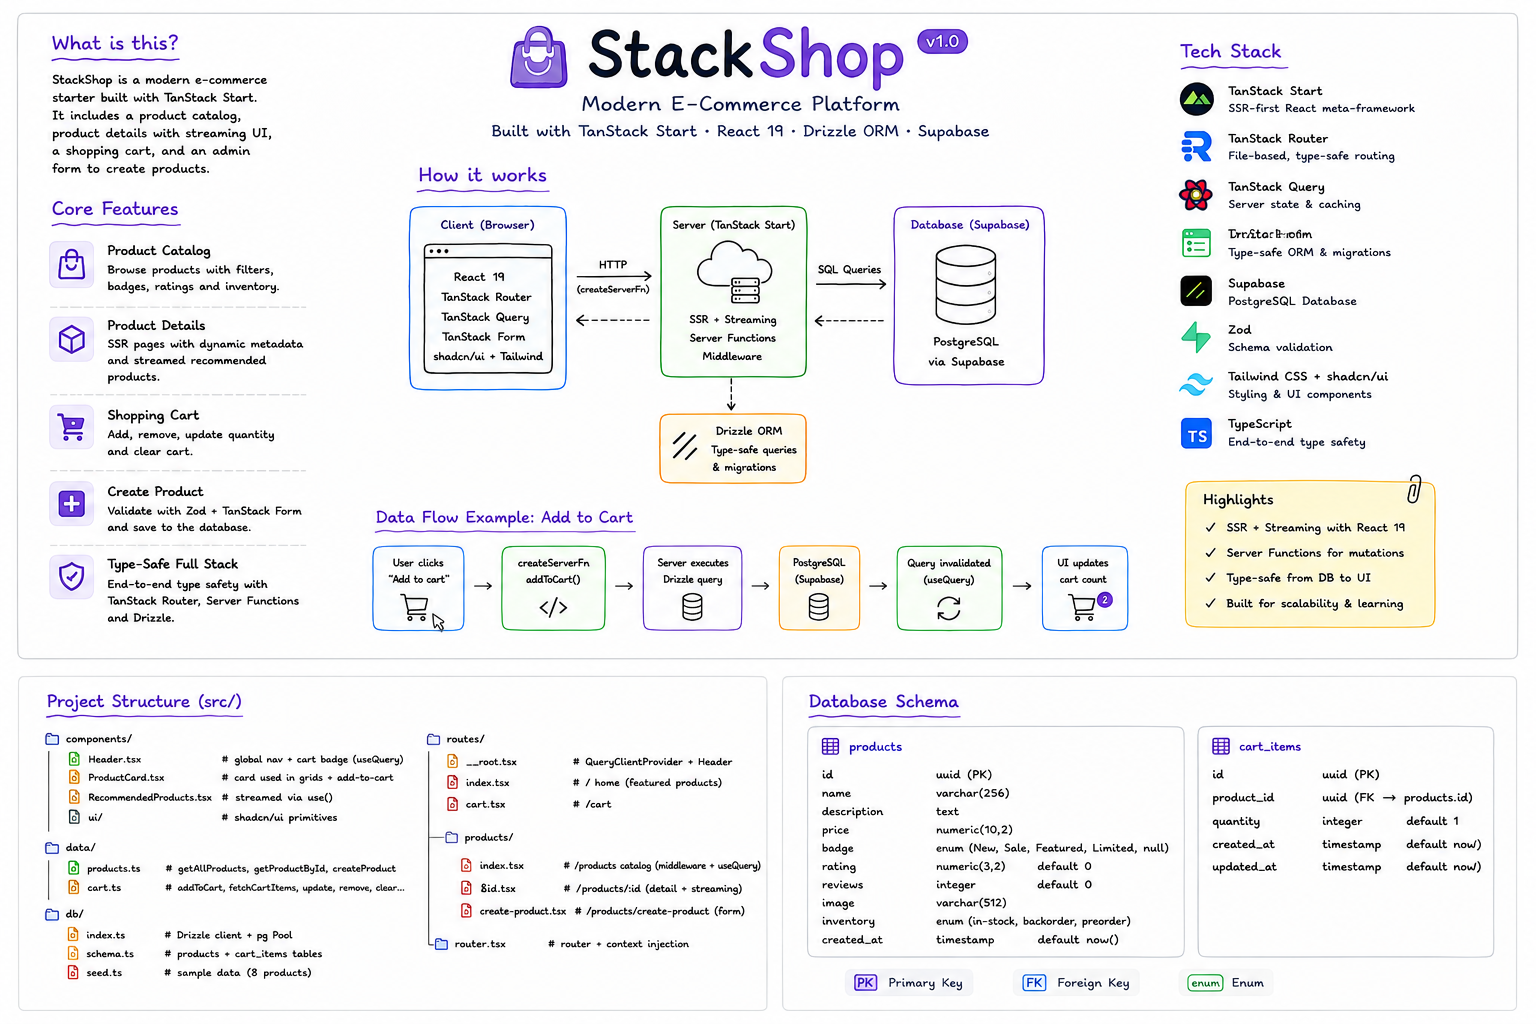
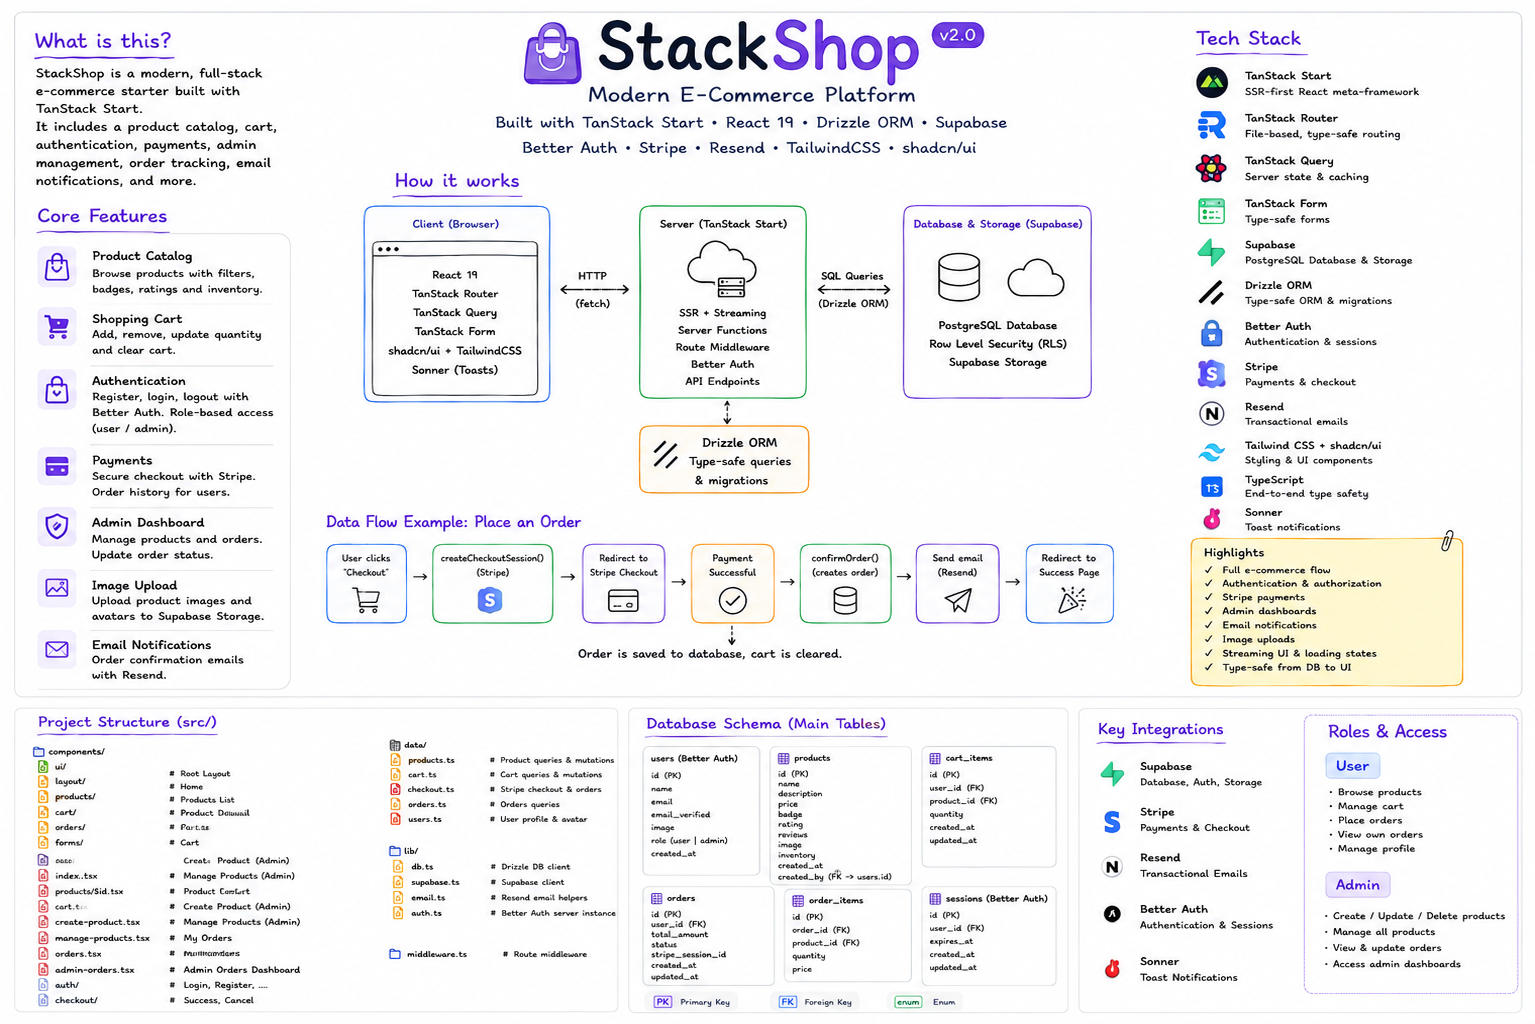
chore: Update readme

Changed region(s): [[0.0, 0.0312, 0.9798, 1.0], [0.2143, 0.0, 0.7042, 0.5]]

diff --git a/README.md b/README.md
@@ -156,10 +156,18 @@
 | **Routing** | [TanStack Router](https://tanstack.com/router) — File-based, fully type-safe routing |
 | **Server State** | [TanStack Query](https://tanstack.com/query) — Client-side caching, background refetch |
 | **Forms** | [TanStack Form](https://tanstack.com/form) — Headless, field-level reactive forms |
+| **Tables** | [TanStack Table](https://tanstack.com/table) — Headless table for admin dashboards |
 | **Database** | [PostgreSQL](https://www.postgresql.org/) via [Supabase](https://supabase.com/) |
 | **ORM** | [Drizzle ORM](https://orm.drizzle.team/) — Type-safe query builder + migrations |
+| **Authentication** | [Better Auth](https://www.better-auth.com/) — Email/password auth with Drizzle adapter, role-based access |
+| **Payments** | [Stripe](https://stripe.com/) — Checkout Sessions, line items, payment verification |
+| **Storage** | [Supabase Storage](https://supabase.com/storage) — Product images + profile avatars via `@supabase/supabase-js` |
+| **Email** | [Resend](https://resend.com/) — Transactional HTML order confirmation emails |
+| **Notifications** | [Sonner](https://sonner.emilkowal.ski/) — Toast notifications for mutations and errors |
 | **Styling** | [Tailwind CSS v4](https://tailwindcss.com/) + [shadcn/ui](https://ui.shadcn.com/) |
 | **Validation** | [Zod](https://zod.dev/) — Runtime schema validation |
+| **Image Processing** | [browser-image-compression](https://github.com/Donaldcwl/browser-image-compression) — Client-side compression before upload |
+| **Icons** | [Lucide React](https://lucide.dev/) + [HugeIcons](https://hugeicons.com/) |
 | **Language** | [TypeScript](https://www.typescriptlang.org/) 5.7 |
 | **Toolchain** | [Vite](https://vitejs.dev/) 8 + [Biome](https://biomejs.dev/) (lint & format) |
 
@@ -169,16 +177,39 @@
 
 ## 💫 Application Features
 
+**Products**
 - **Product catalog** — browsable grid with badges, ratings, reviews, and inventory status
-- **Product detail page** — SSR with dynamic metadata (`<head>`) per product
+- **Product detail page** — SSR with dynamic `<head>` metadata per product (title, description, canonical)
 - **Streaming UI** — recommended products load via React 19 `use()` + `<Suspense>` with skeleton fallback
-- **Create product form** — field-level Zod validation via TanStack Form, writes to the real DB
-- **Shopping cart** — add, remove, update quantity, clear cart; all persisted in PostgreSQL
+- **Create product form** — field-level Zod validation via TanStack Form, image upload to Supabase Storage
+- **Admin product management** — inline edit and delete via Dialog; protected to `admin` role only
+- **Search, filter & sort** — `DataToolbar` component with live search, inventory filter, and sort across the catalog and admin panel
+
+**Cart & Checkout**
+- **Shopping cart** — add, remove, update quantity, clear cart; upsert pattern for duplicates; all persisted in PostgreSQL
 - **Cart badge in header** — live item count and total via `useQuery`, invalidated on every mutation
-- **Server Functions** — `createServerFn` for all data mutations (type-safe HTTP endpoints)
+- **Stripe Checkout** — creates a Checkout Session with line items, redirects to Stripe-hosted payment page
+- **Order confirmation** — verifies payment with Stripe on return, marks order as `paid`, clears the cart
+- **Product snapshots** — `order_items` stores name, price, and image at purchase time — decoupled from catalog changes
+
+**Orders**
+- **Order history** — user-facing page listing all past orders with items, quantities, and status
+- **Admin orders dashboard** — table of all orders joined with buyer info; update status (`pending` → `paid` → `failed`)
+- **Order confirmation email** — HTML email sent via Resend on successful payment; themeable via `StoreConfig`
+
+**Auth & Users**
+- **Email/password authentication** — register, login, logout via Better Auth + Drizzle adapter
+- **Session management** — session injected into root context via `beforeLoad`; `router.invalidate()` on auth changes
+- **Role-based access** — `admin` and `user` roles; routes and server functions both enforce role checks independently
+- **User profile** — view name, email, role, and avatar; edit via Dialog with client-side image compression + Supabase Storage upload
+- **Adaptive Header** — shows user dropdown with role badge and logout when authenticated; hides admin links for regular users
+
+**DX & Architecture**
+- **Server Functions** — `createServerFn` for all data mutations and queries; type-safe HTTP endpoints callable from loaders and components
 - **Middleware** — server-side request logging via `createMiddleware` on the `/products` route
-- **Query caching** — `useQuery` with `initialData` from the loader; no duplicate network requests
-- **Selective SSR** — each route controls its own rendering strategy independently
+- **Query caching** — `useQuery` with `initialData` from the loader; no duplicate network requests on mount
+- **Selective SSR** — each route controls its own rendering strategy (`ssr: true`, `"data-only"`, `ssr: false`) independently
+- **Toast notifications** — Sonner toasts on every mutation (add to cart, profile update, auth events, errors)
 
 ---
 
@@ -197,30 +228,57 @@
 ```
 src/
 ├── components/
-│   ├── Header.tsx                  ← global nav + cart badge (useQuery)
+│   ├── DataToolbar.tsx             ← search, filter & sort toolbar (Phase 16)
+│   ├── Header.tsx                  ← global nav + cart badge + user dropdown
 │   ├── ProductCard.tsx             ← card used in grids + add-to-cart button
 │   ├── RecommndedProducts.tsx      ← unwraps streamed Promise via use()
+│   ├── login-form.tsx              ← Better Auth sign-in form
+│   ├── signup-form.tsx             ← Better Auth sign-up form
 │   └── ui/                         ← shadcn/ui primitives (button, card, input…)
 ├── data/
-│   ├── products.ts                 ← getAllProducts · getProductById · createProduct
-│   └── cart.ts                     ← addToCart · fetchCartItems · removeFromCart · updateCartQuantity · clearCart · getCartItemsCount
-├── lib/
-│   ├── auth.ts                     ← Better Auth server instance (drizzle adapter + tanstackStartCookies)
-│   ├── auth-client.ts              ← Browser auth client (signIn · signUp · useSession)
-│   └── auth.functions.ts           ← getSession · ensureSession · sessionQueryKey
+│   ├── cart.ts                     ← addToCart · fetchCartItems · removeFromCart · updateCartQuantity · clearCart · getCartItemsCount
+│   ├── checkout.ts                 ← createCheckoutSession · confirmOrder
+│   ├── orders.ts                   ← getUserOrders · getAllOrders · updateOrderStatus
+│   ├── products.ts                 ← getAllProducts · getProductById · createProduct · updateProduct · deleteProduct
+│   └── user.ts                     ← updateUserProfile
 ├── db/
 │   ├── index.ts                    ← Drizzle client + pg Pool
-│   ├── schema.ts                   ← products + cart_items tables, enums, inferred types
+│   ├── schema.ts                   ← all tables, enums, inferred types
 │   └── seed.ts                     ← sample data (8 products)
+├── hooks/
+│   ├── useOrderFilters.ts          ← search + status filter state for orders
+│   └── useProductFilters.ts        ← search + sort state for products
+├── lib/
+│   ├── auth-client.ts              ← Browser auth client (signIn · signUp · useSession)
+│   ├── auth.functions.ts           ← getSession · ensureSession · sessionQueryKey
+│   ├── auth.ts                     ← Better Auth server instance (drizzle adapter + tanstackStartCookies)
+│   ├── email.ts                    ← Resend email sender (order confirmation)
+│   ├── supabase.ts                 ← Supabase Storage client (image uploads)
+│   └── utils.ts                    ← cn() utility helper
 ├── routes/
 │   ├── __root.tsx                  ← QueryClientProvider + Header + global shell
-│   ├── index.tsx                   ← / home (featured products, SSR loader)
+│   ├── api/
+│   │   └── auth/
+│   │       └── $.ts                ← Better Auth catch-all API handler
 │   ├── cart.tsx                    ← /cart page
-│   └── products/
-│       ├── index.tsx               ← /products catalog (middleware + useQuery)
-│       ├── $id.tsx                 ← /products/:id detail + streaming recommended
-│       └── create-product.tsx      ← /products/create-product form
-└── router.tsx                      ← router + QueryClient context injection
+│   ├── checkout/
+│   │   ├── cancel.tsx              ← /checkout/cancel
+│   │   └── success.tsx             ← /checkout/success (confirms order)
+│   ├── index.tsx                   ← / home (featured products, SSR loader)
+│   ├── orders/
+│   │   ├── index.tsx               ← /orders (user order history)
+│   │   └── manage-orders.tsx       ← /orders/manage-orders (admin dashboard)
+│   ├── products/
+│   │   ├── $id.tsx                 ← /products/:id detail + streaming recommended
+│   │   ├── create-product.tsx      ← /products/create-product form
+│   │   ├── index.tsx               ← /products catalog (middleware + useQuery)
+│   │   └── manage-products.tsx     ← /products/manage-products (admin CRUD)
+│   ├── profile.tsx                 ← /profile (user profile + avatar upload)
+│   ├── sign-in.tsx                 ← /sign-in
+│   └── sign-up.tsx                 ← /sign-up
+├── routeTree.gen.ts                ← auto-generated by TanStack Router
+├── router.tsx                      ← router + QueryClient context injection
+└── styles.css
 ```
 
 ---
@@ -253,6 +311,80 @@ src/
 | `quantity` | `integer` | Default `1` |
 | `created_at` | `timestamp` | Auto-set on insert |
 | `updated_at` | `timestamp` | Updated on quantity change |
+
+### `user` _(Better Auth)_
+
+| Column | Type | Notes |
+| --- | --- | --- |
+| `id` | `text` | Primary key |
+| `name` | `text` | Display name |
+| `email` | `text` | Unique |
+| `email_verified` | `boolean` | Default `false` |
+| `image` | `text` | Avatar URL, nullable |
+| `role` | `enum` | `admin` · `user` — default `user` |
+| `created_at` | `timestamp` | Auto-set on insert |
+| `updated_at` | `timestamp` | Auto-updated on change |
+
+### `session` _(Better Auth)_
+
+| Column | Type | Notes |
+| --- | --- | --- |
+| `id` | `text` | Primary key |
+| `expires_at` | `timestamp` | Session expiry |
+| `token` | `text` | Unique session token |
+| `ip_address` | `text` | Nullable |
+| `user_agent` | `text` | Nullable |
+| `user_id` | `text` | FK → `user.id` (cascade delete) |
+| `created_at` | `timestamp` | Auto-set on insert |
+| `updated_at` | `timestamp` | Auto-updated on change |
+
+### `account` _(Better Auth)_
+
+| Column | Type | Notes |
+| --- | --- | --- |
+| `id` | `text` | Primary key |
+| `account_id` | `text` | Provider account ID |
+| `provider_id` | `text` | e.g. `credential` |
+| `user_id` | `text` | FK → `user.id` (cascade delete) |
+| `password` | `text` | Hashed, nullable |
+| `access_token` | `text` | Nullable |
+| `refresh_token` | `text` | Nullable |
+| `created_at` | `timestamp` | Auto-set on insert |
+| `updated_at` | `timestamp` | Auto-updated on change |
+
+### `verification` _(Better Auth)_
+
+| Column | Type | Notes |
+| --- | --- | --- |
+| `id` | `text` | Primary key |
+| `identifier` | `text` | Email or user identifier |
+| `value` | `text` | Verification token |
+| `expires_at` | `timestamp` | Token expiry |
+| `created_at` | `timestamp` | Auto-set on insert |
+| `updated_at` | `timestamp` | Auto-updated on change |
+
+### `orders`
+
+| Column | Type | Notes |
+| --- | --- | --- |
+| `id` | `uuid` | Primary key, auto-generated |
+| `user_id` | `text` | FK → `user.id` (cascade delete) |
+| `stripe_session_id` | `text` | Stripe Checkout session ID, nullable |
+| `status` | `enum` | `pending` · `paid` · `failed` — default `pending` |
+| `total` | `numeric(10,2)` | Order total |
+| `created_at` | `timestamp` | Auto-set on insert |
+
+### `order_items`
+
+| Column | Type | Notes |
+| --- | --- | --- |
+| `id` | `uuid` | Primary key, auto-generated |
+| `order_id` | `uuid` | FK → `orders.id` (cascade delete) |
+| `product_id` | `uuid` | FK → `products.id` (set null on delete) |
+| `name` | `varchar(256)` | Product name snapshot at purchase time |
+| `price` | `numeric(10,2)` | Price snapshot at purchase time |
+| `quantity` | `integer` | Units purchased |
+| `image` | `varchar(512)` | Image URL snapshot at purchase time |
 
 > Types are derived via Drizzle's `$inferSelect` / `$inferInsert` — no manual interfaces needed.
 
